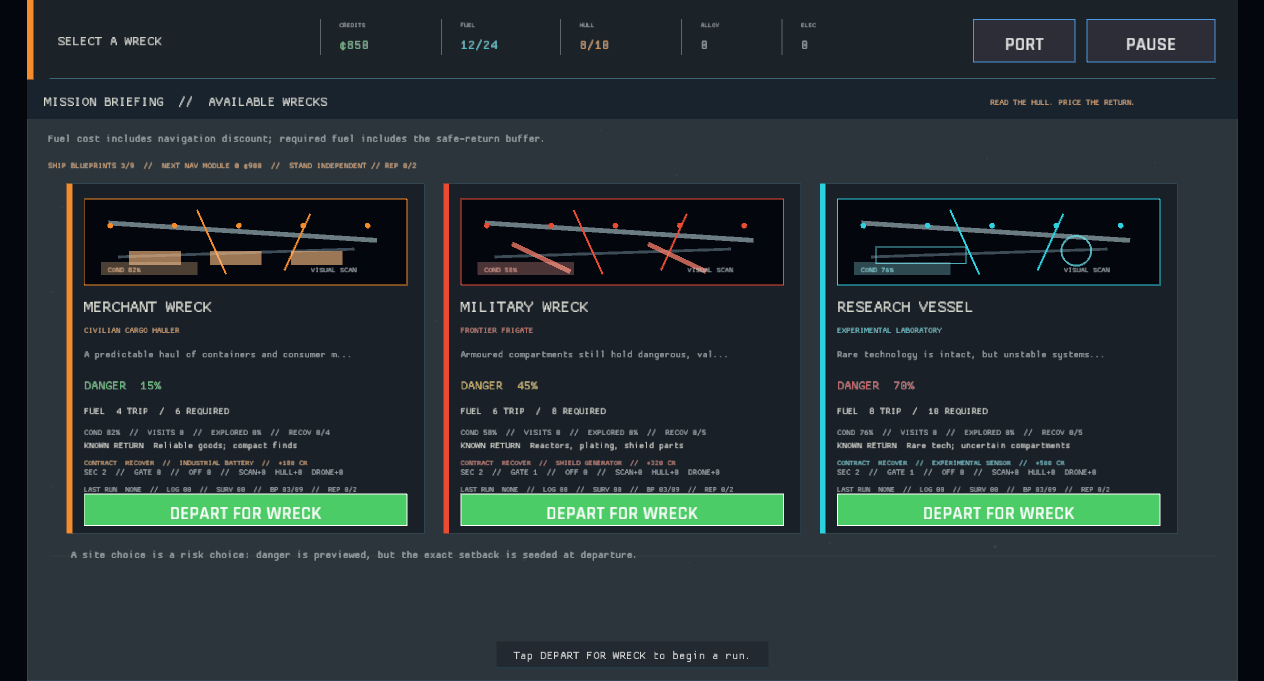
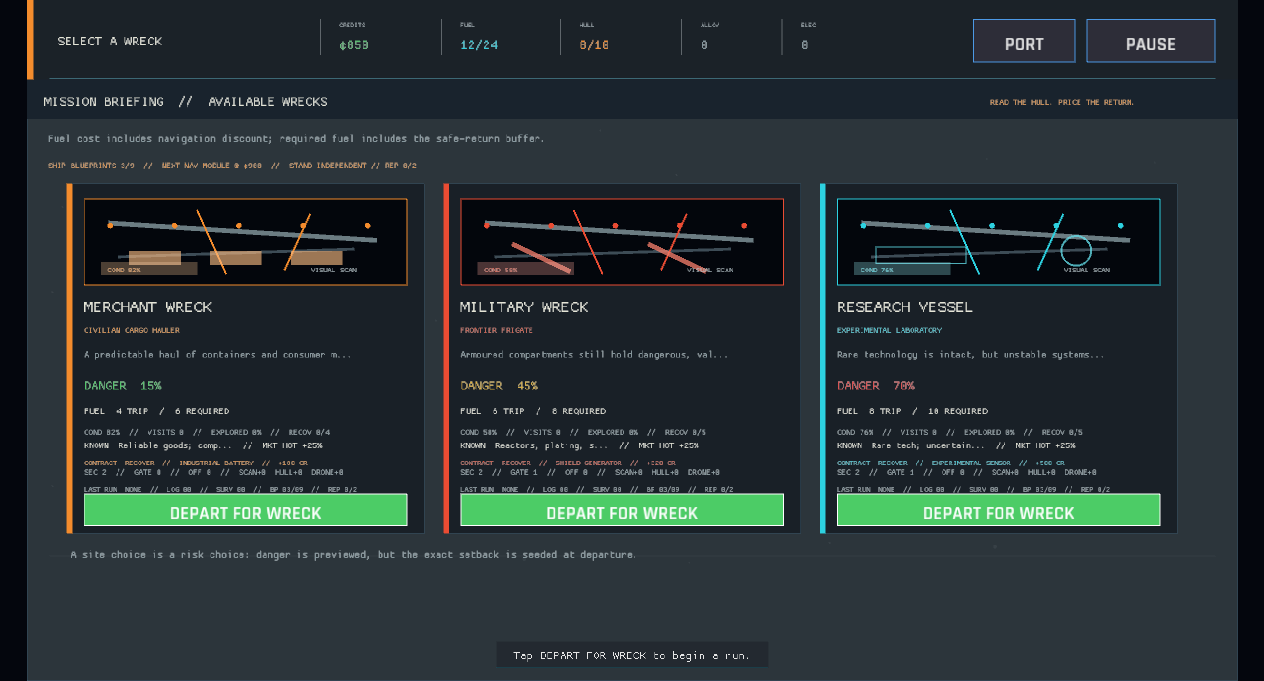
The wreck briefs carry the buyer's appetite into departure (site demand preview)
Each mission card now previews the strongest current demand signal beside its known-return hint, with compact formatting that keeps the premium visible at the card's existing width. Label coverage and refreshed site-selection evidence accompany the published build.

diff --git a/src/ui/site_cards.rs b/src/ui/site_cards.rs
@@ -184,8 +184,16 @@ fn draw_site_card(
         .site_progress
         .get(&site.id)
         .is_some_and(|value| value.contract_failed);
+    let market_outlook = site_market_outlook_label(site, ctx.session, ctx.data);
     draw_text(
-        format!("KNOWN RETURN  {}", site.known_reward),
+        clipped(
+            &format!(
+                "KNOWN  {}  //  {}",
+                clipped(&site.known_reward, 20),
+                market_outlook
+            ),
+            54,
+        ),
         rect.x + 18.0,
         rect.y + 280.0,
         12.0,
@@ -308,6 +316,26 @@ fn site_standing_progress_label(session: &GameSession) -> String {
     session.next_standing_threshold().map_or_else(
         || format!("REP {}", session.reputation),
         |threshold| format!("REP {}/{}", session.reputation, threshold),
+    )
+}
+
+fn site_market_outlook_label(
+    site: &crate::data::SiteData,
+    session: &GameSession,
+    data: &GameData,
+) -> String {
+    let Some(quote) = site
+        .candidate_salvage
+        .iter()
+        .filter_map(|object_id| session.market_quote(object_id, data))
+        .max_by_key(|quote| (quote.signed_multiplier(), quote.sale_value))
+    else {
+        return "DEMAND UNKNOWN".to_owned();
+    };
+    format!(
+        "MKT {} {:+}%",
+        quote.band.label(),
+        quote.signed_multiplier()
     )
 }
 

diff --git a/src/ui/site_cards/tests.rs b/src/ui/site_cards/tests.rs
@@ -53,3 +53,14 @@ fn site_cards_reduce_standing_to_a_compact_progress_label() {
 
     assert_eq!(site_standing_progress_label(&session), "REP 4/7");
 }
+
+#[test]
+fn site_cards_preview_the_strongest_buyer_demand_in_the_wreck() {
+    let data = GameData::load().unwrap();
+    let session = GameSession::new(&data);
+    let site = data.sites.get("merchant_wreck").unwrap();
+    let label = site_market_outlook_label(site, &session, &data);
+
+    assert!(label.starts_with("MKT "));
+    assert!(label.ends_with('%'));
+}
